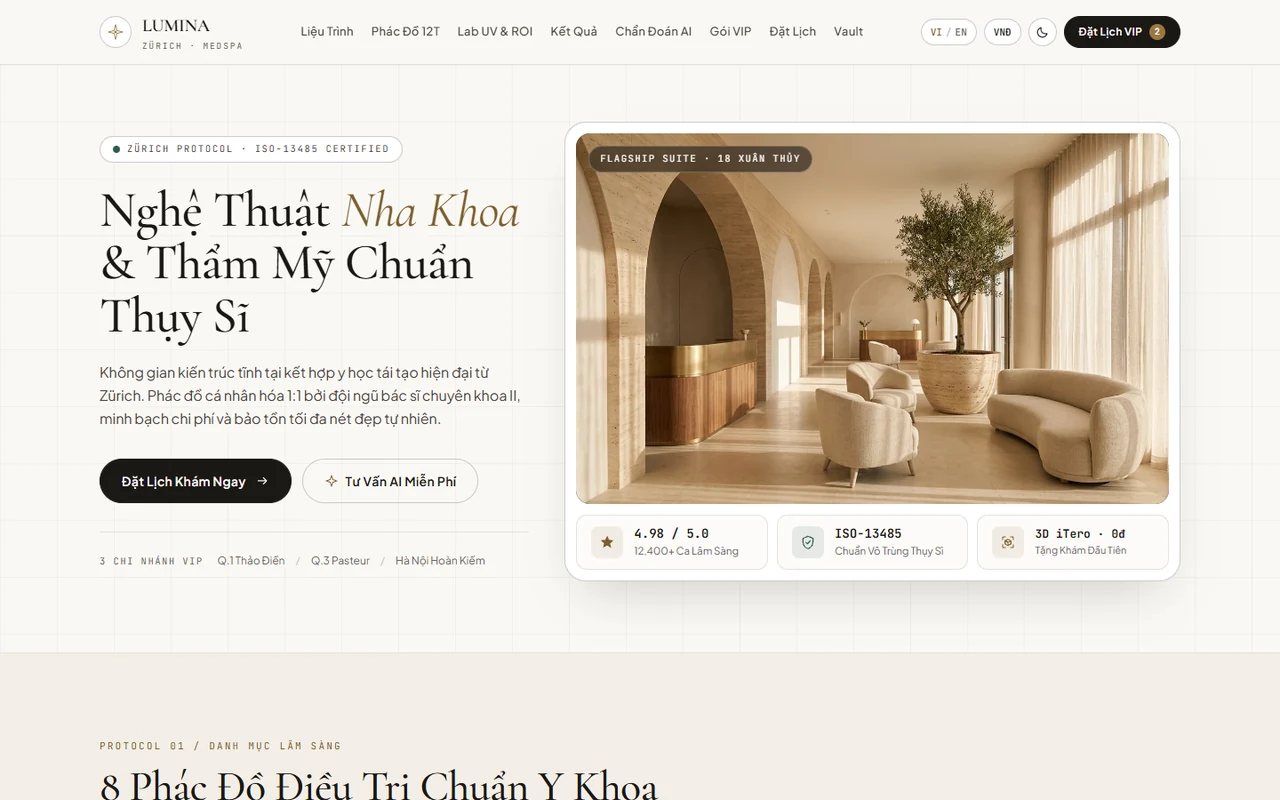
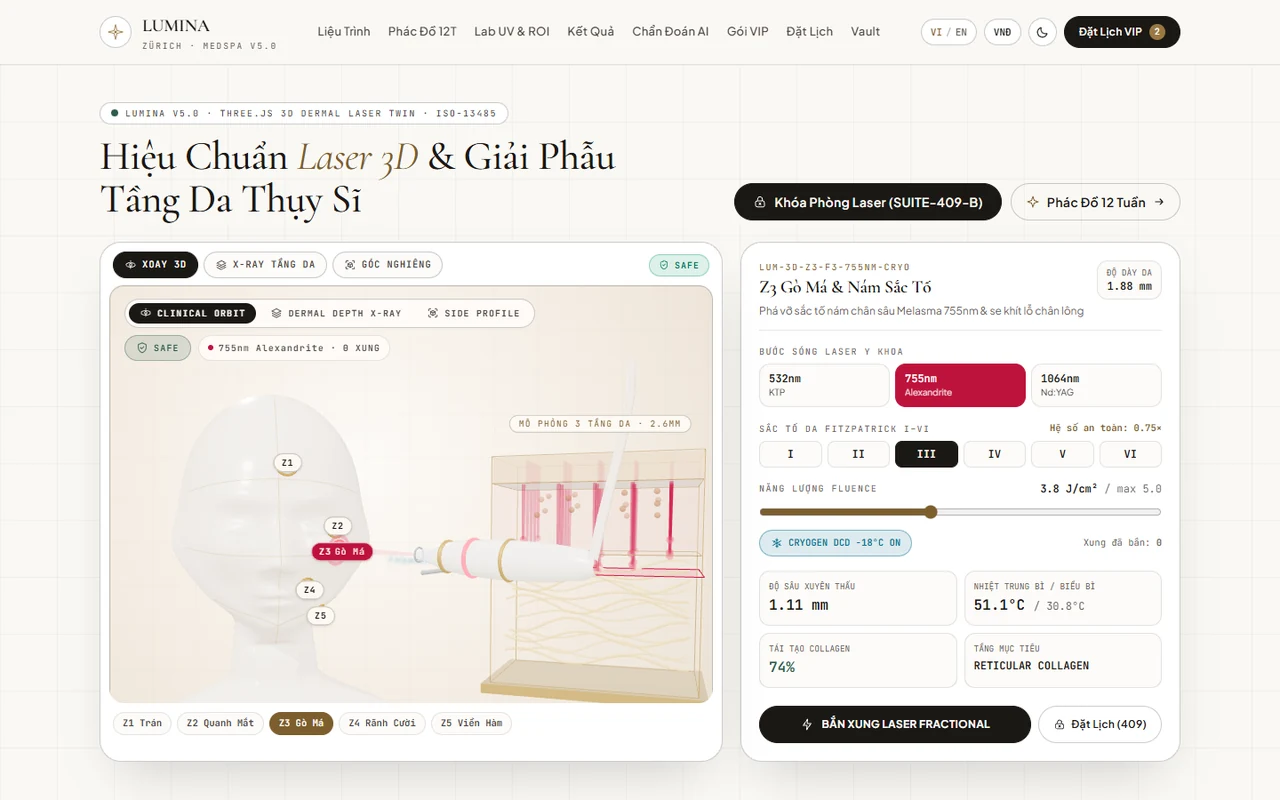
feat(wave5): sync all 26/26 Master Interactive monorepos (20 Three.js 3D), 5,043 Core Live CI & fresh .webp previews

diff --git a/src/engines/catalog.ts b/src/engines/catalog.ts
@@ -121,14 +121,14 @@ export const CATALOG_PRODUCTS: TemplateProduct[] = [
   {
     id: 'lumina-medspa',
     sku: 'TVT-MED-03',
-    name: 'Lumina MedSpa Clinic v4.0',
+    name: 'Lumina MedSpa Clinic v5.0',
     subtitle: {
-      vi: 'Website Phòng Khám Nha Khoa / Thẩm Mỹ & Đặt Lịch',
-      en: 'Aesthetic Clinic, Dental & Smart Booking Platform',
+      vi: 'Hiệu Chuẩn Laser 3D Trên Gương Mặt & X-Ray Giải Phẫu 3 Tầng Da, Làm Lạnh Cryo & .NET 10',
+      en: '60fps 3D Facial Laser Calibration & Dermal Layer X-Ray Cutaway, Cryo DCD & .NET 10',
     },
     tagline: {
-      vi: 'Website chuẩn y khoa cao cấp với hệ thống chọn bác sĩ, khung giờ thông minh, so sánh trước/sau và bảng giá dịch vụ minh bạch.',
-      en: 'Editorial medical aesthetics storefront with doctor slot booking, treatment calculator, and before/after showcase.',
+      vi: 'Bản sao số Da liễu Thụy Sĩ 3D Three.js: chạm trực tiếp 5 vùng mặt Z1–Z5, bắn tia 532/755/1064nm kết hợp làm lạnh Cryogen -18°C, mở mặt cắt X-Ray 3 tầng da 2.6mm đo nhiệt trung bì & tái tạo Collagen theo thang Fitzpatrick I–VI.',
+      en: '60fps Three.js Swiss Dermatology Twin: click facial zones Z1–Z5, fire 532/755/1064nm laser pulses with -18°C Cryogen DCD cooling, inspect 3-layer 2.6mm Dermal Depth X-Ray cutaway & calibrate Fitzpatrick I–VI thermal safety.',
     },
     category: 'clinic-proptech',
     categoryLabel: {
@@ -143,28 +143,28 @@ export const CATALOG_PRODUCTS: TemplateProduct[] = [
     deliveryDaysMax: 4,
     liveUrl: 'https://tvt987.github.io/lumina-medspa/',
     previewImage: './media/lumina-medspa.webp',
-    previewBadge: 'PATIENT VAULT · 0% INSTALLMENT',
+    previewBadge: '.NET 10 · 3D FACIAL LASER · DERMAL X-RAY · CRYO',
     featuredRank: 20,
-    stack: ['.NET 10', '12W Roadmap', 'Fitzpatrick Guard', 'Slot Lock'],
+    stack: ['.NET 10', 'Three.js 3D Laser', 'Dermal X-Ray', 'Fitzpatrick Guard'],
     deliverables: {
       vi: [
-        'Luồng đặt lịch khám 3 bước chọn chi nhánh, chuyên khoa, bác sĩ & khung giờ trống',
-        'Bảng giá liệu trình minh bạch, tính gói combo chăm sóc & gửi xác nhận Zalo/Email',
-        'Khu vực đội ngũ bác sĩ, chứng chỉ y khoa & hình ảnh khách hàng tăng độ tin cậy',
-        'Tối ưu SEO Local Google Maps và tốc độ tải tức thì trên điện thoại khách hàng',
+        'Tượng gương mặt Alabaster 3D & tay cầm Laser khớp động bắn tia 532/755/1064nm + mặt cắt X-Ray 3 tầng da 2.6mm',
+        'Cảnh báo an toàn nhiệt biểu bì theo sắc tố Fitzpatrick I–VI, hệ thống làm lạnh Cryogen -18°C & lộ trình 12 tuần',
+        'Đặt lịch chọn bác sĩ, phòng máy Laser (Suite-409-B) khóa chống trùng slot (.NET 10 API, 175 CI tests) & VietQR',
+        'Hồ sơ bệnh án Patient Vault, máy tính hoàn vốn CapEx máy Laser & tối ưu SEO Local Google Maps',
       ],
       en: [
-        '3-step appointment booking flow by branch, specialty, doctor, and live time slots',
-        'Transparent treatment menu, bundle calculator & instant Zalo/Email confirmation',
-        'Doctor credential profiles, clinical hygiene badges, and social proof showcase',
-        'Local SEO schema markup and instant mobile loading performance',
+        '60fps Three.js Alabaster facial twin & articulated laser handpiece firing 532/755/1064nm beams into 3-layer 2.6mm Dermal X-Ray',
+        'Real-time Fitzpatrick I–VI thermal guard, -18°C Cryogen DCD cooling & 12-week clinical treatment roadmap',
+        'Atomic suite & doctor slot locker (.NET 10 API, 175 CI tests), treatment bundle estimator & VietQR deposit',
+        'Patient Vault dossier, Laser CapEx ROI lab & Local SEO schema markup',
       ],
     },
     architectureNote: {
-      vi: 'Full-Stack Monorepo .NET 10 với lộ trình 12 tuần, cảnh báo Fitzpatrick an toàn da & khóa khung giờ chống đặt trùng.',
-      en: 'Full-Stack .NET 10 clinic monorepo with 12-week treatment roadmap, Fitzpatrick safety guard & atomic slot conflict lock.',
+      vi: 'Full-Stack Monorepo .NET 10 + Hiệu chuẩn Laser 3D Three.js, mặt cắt X-Ray 3 tầng da, cảnh báo Fitzpatrick I–VI & khóa phòng chống đặt trùng.',
+      en: 'Full-Stack .NET 10 clinic monorepo pairing Three.js 3D facial laser physics, 3-layer dermal X-Ray, Fitzpatrick safety guard & atomic slot lock.',
     },
-    metricsBadge: 'PATIENT VAULT · 0% INSTALLMENT',
+    metricsBadge: '.NET 10 · 3D FACIAL LASER · DERMAL X-RAY · CRYO',
   },
   {
     id: 'kinetix-proptech',
@@ -543,14 +543,14 @@ export const CATALOG_PRODUCTS: TemplateProduct[] = [
   {
     id: 'solaris-academy',
     sku: 'TVT-EDU-12',
-    name: 'Solaris Academy LMS v3.0',
+    name: 'Solaris Academy LMS v4.0',
     subtitle: {
-      vi: 'Nền Tảng E-Learning, Chấm Code Sandbox & Cấp Chứng Chỉ',
-      en: 'Interactive Coding LMS, Zero-Eval Sandbox & Verifiable Certificates',
+      vi: 'Sa Bàn Kiến Trúc Phân Tán 5 Tầng 3D, Bão Cache Stampede, 1-Click Auto-Scale & FastAPI AST',
+      en: '60fps 3D 5-Tier Distributed Architecture Sandbox, Cache Stampede Chaos, Auto-Scale & FastAPI AST',
     },
     tagline: {
-      vi: 'Hệ thống học trực tuyến hiện đại với trình chạy & chấm bài tập code an toàn ngay trên trình duyệt, flashcard lặp lại ngắt quãng SM-2 và cấp chứng chỉ QR.',
-      en: 'Modern EdTech LMS featuring a custom zero-eval AST code sandbox, SM-2 spaced-repetition flashcards, XP streaks, and verifiable SVG/PDF certificates.',
+      vi: 'Sa bàn kiến trúc Cloud 5 tầng 3D Three.js (Edge CDN → API GW → App Cluster → Redis Cache → Sharded DB): kéo tải 1K–100K RPS, click tủ rack nâng +1 blade, tiêm bão Cache Stampede đỏ rực & bấm 1-Click Auto-Scale phục hồi P99 <22ms kèm trình chấm code AST 0-eval.',
+      en: '60fps Three.js 5-Tier Distributed Cloud Sandbox (Edge CDN → API GW → App Cluster → Redis Cache → Sharded DB): scrub 1K–100K RPS, click racks to add blades, inject Cache Stampede chaos & trigger 1-Click Auto-Scale (<22ms P99) plus zero-eval AST grader & SM-2 flashcards.',
     },
     category: 'enterprise-b2b',
     categoryLabel: { vi: 'Doanh Nghiệp, HR & FinTech', en: 'Enterprise, EdTech & FinTech' },
@@ -562,28 +562,28 @@ export const CATALOG_PRODUCTS: TemplateProduct[] = [
     deliveryDaysMax: 6,
     liveUrl: 'https://tvt987.github.io/solaris-academy/',
     previewImage: './media/solaris-academy.webp',
-    previewBadge: 'ZERO-EVAL AST SANDBOX · SM-2',
+    previewBadge: 'FASTAPI · 3D CLOUD TOPOLOGY · CACHE STAMPEDE · AST',
     featuredRank: 18,
-    stack: ['FastAPI', 'Zero-Eval AST', 'Algo Visualizer', 'Oxford UI'],
+    stack: ['FastAPI', 'Three.js 3D Topology', 'Zero-Eval AST', 'SM-2 + Oxford UI'],
     deliverables: {
       vi: [
-        '6 lộ trình khóa học công nghệ kèm theo dõi tiến độ từng bài học & chuỗi XP bền vững',
-        'Trình chấm code thực hành dùng bộ thông dịch AST an toàn (0 eval / 0 lỗ hổng XSS)',
-        'Bộ thẻ Flashcard lặp lại ngắt quãng SM-2 & ngân hàng câu hỏi trắc nghiệm có giải thích',
-        'Cấp chứng chỉ hoàn thành PDF A4 kèm mã xác thực băm + QR & giỏ khóa học VietQR',
+        'Sa bàn kiến trúc phân tán 5 tầng 3D 60fps với luồng gói tin HTTP, tiêm bão Cache Stampede/DB Failover & 1-Click Auto-Scale',
+        '6 lộ trình khóa học công nghệ + Trình chấm code thực hành dùng bộ thông dịch AST an toàn (0 eval / 144 CI tests)',
+        'Bộ thẻ Flashcard lặp lại ngắt quãng SM-2 & trực quan hóa thuật toán Binary Search/QuickSort/Dijkstra',
+        'Cấp chứng chỉ hoàn thành PDF A4 kèm mã xác thực băm HMAC + QR & giỏ khóa học VietQR',
       ],
       en: [
-        '6 flagship curriculum tracks with persistent syllabus progress & daily XP streaks',
-        'Custom zero-eval AST sandbox interpreter with automated unit test grading',
-        'SM-2 spaced-repetition flashcard trainer & timed architecture quiz engine',
-        'Verifiable SVG/A4 PDF completion certificate generator + course bundle VietQR checkout',
+        '60fps Three.js 5-tier distributed architecture sandbox with animated HTTP packets, Cache Stampede chaos & 1-Click Auto-Scale',
+        '6 flagship tracks + custom zero-eval AST sandbox interpreter with automated unit test grading (144 CI tests)',
+        'SM-2 spaced-repetition flashcard trainer & interactive Binary Search / QuickSort / Dijkstra visualizer',
+        'HMAC-verifiable SVG/A4 PDF completion certificates + course bundle VietQR checkout',
       ],
     },
     architectureNote: {
-      vi: 'Full-Stack Monorepo FastAPI với trình chấm code Zero-Eval AST an toàn 100%, trực quan hóa thuật toán (Algo Visualizer) & giao diện Oxford UI.',
-      en: 'Full-Stack FastAPI EdTech monorepo with zero-eval AST grader, interactive Algo Visualizer & editorial Oxford UI.',
+      vi: 'Full-Stack Monorepo FastAPI + Sa bàn Cloud 5 tầng 3D Three.js, trình chấm code Zero-Eval AST, Algo Visualizer & giao diện Oxford UI.',
+      en: 'Full-Stack FastAPI EdTech monorepo pairing a Three.js 3D 5-tier distributed topology sandbox, zero-eval AST grader & Oxford UI.',
     },
-    metricsBadge: 'ZERO-EVAL AST SANDBOX · SM-2',
+    metricsBadge: 'FASTAPI · 3D CLOUD TOPOLOGY · CACHE STAMPEDE · AST',
   },
   {
     id: 'kuro-omakase',
@@ -633,14 +633,14 @@ export const CATALOG_PRODUCTS: TemplateProduct[] = [
   {
     id: 'vanguard-fitness',
     sku: 'TVT-FIT-14',
-    name: 'Vanguard Fitness Club v3.0',
+    name: 'Vanguard Fitness Club v4.0',
     subtitle: {
-      vi: 'CLB Gym, Pilates & Mô Phỏng Chuyển Hóa 12 Tuần',
-      en: 'Luxury Gym, Pilates & 12-Week Metabolic Transformation Portal',
+      vi: 'Vận Động Viên Sinh Trắc 3D, Đốt Lactate Z5 & Phác Đồ Deload Tự Động ACWR .NET 10',
+      en: '60fps 3D Bio-Telemetry Kinematic Runner, VO2/Lactate Strain & Auto-Deload ACWR .NET 10',
     },
     tagline: {
-      vi: 'Tính toán BMR/TDEE/Macro chuẩn Mifflin-St Jeor kèm đồ thị chuyển hóa 12 tuần, đặt chỗ lớp học có hàng chờ tự động, ghép PT & thẻ thành viên QR.',
-      en: 'Mifflin-St Jeor BMR/TDEE/Macro & 12-week SVG trajectory simulator, live class capacity locking with auto-waitlist, PT matcher & QR Member Pass.',
+      vi: 'Vận động viên chạy bộ 3D Three.js gắn cảm biến sinh trắc học theo thời gian thực: đẩy công suất 100W→380W (Z5 VO2max Redline, 8.4mM Lactate), tiêm quá tải ACWR 1.65 phát sáng nhóm cơ nguy hiểm & bấm Prescribe Deload phục hồi HRV 94% tức thì.',
+      en: '60fps Three.js articulated bio-telemetry runner on a force-plate treadmill: drive 100W→380W (Z5 VO2max, 8.4mM Lactate), inject ACWR 1.65 overtraining illuminating crimson muscle strain rings & prescribe Autonomic Deload rebounding HRV to 94%.',
     },
     category: 'clinic-proptech',
     categoryLabel: { vi: 'Y Tế, BĐS & Wellness', en: 'Clinic, PropTech & Wellness' },
@@ -652,28 +652,28 @@ export const CATALOG_PRODUCTS: TemplateProduct[] = [
     deliveryDaysMax: 4,
     liveUrl: 'https://tvt987.github.io/vanguard-fitness/',
     previewImage: './media/vanguard-fitness.webp',
-    previewBadge: '12W METABOLIC · WAITLIST LOCK',
+    previewBadge: '.NET 10 · 3D BIO-ATHLETE · LACTATE · DELOAD',
     featuredRank: 22,
-    stack: ['.NET 10', '12W Periodization', 'FIFO Waitlist', 'ACWR Guard'],
+    stack: ['.NET 10', 'Three.js 3D Athlete', 'Lactate + ACWR', 'FIFO Waitlist'],
     deliverables: {
       vi: [
-        'Máy tính chỉ số trao đổi chất Mifflin-St Jeor + chia gram Đạm/Tinh bột/Béo & đồ thị 12 tuần',
-        'Lịch lớp HIIT, Reformer Pilates, Strength & Recovery với khóa suất trống + xếp hàng chờ tự động',
-        'Bộ ghép Huấn luyện viên (PT) theo mục tiêu + so sánh gói hội viên Tháng/Năm (-20%)',
+        'Vận động viên 3D Kinematic chạy trên thảm đo lực với chế độ Bio X-Ray & Side Gait Cam, click soi từng nhóm cơ (SmO2/Impact)',
+        'Mô phỏng quá tải chấn thương ACWR 1.65 & phác đồ Deload tự động + máy tính Mifflin-St Jeor & đồ thị chuyển hóa 12 tuần',
+        'Lịch lớp HIIT, Reformer Pilates, Strength & Recovery với khóa suất trống + xếp hàng chờ FIFO (.NET 10 API, 162 CI tests)',
         'Thẻ hội viên Obsidian QR, xuất lộ trình tập luyện PDF A4 & thanh toán VietQR',
       ],
       en: [
-        'Mifflin-St Jeor BMR/TDEE/Macro engine with interactive 12-week lean-mass SVG projection',
-        'Live weekly class schedule with real-time seat counters, automatic waitlist & .ics export',
-        'Personal Trainer specialty matcher & Monthly vs Annual (-20%) membership comparator',
+        '60fps Three.js kinematic runner with Bio X-Ray & Side Gait Cam, clickable muscle telemetry (SmO2, lactate clearance, G-impact)',
+        'Live ACWR 1.65 overtraining injection & 1-click Autonomic Deload + Mifflin-St Jeor BMR/TDEE & 12-week projection',
+        'Live weekly class schedule with real-time seat counters, automatic FIFO waitlist (.NET 10 API, 162 CI tests) & .ics export',
         'Digital QR Member Pass, printable A4 training blueprint & live VietQR settlement',
       ],
     },
     architectureNote: {
-      vi: 'Full-Stack Monorepo .NET 10 lập chu kỳ tập luyện 12 tuần (Periodization), hàng chờ lớp FIFO tự động & cảnh báo quá tải chấn thương ACWR Guard.',
-      en: 'Full-Stack .NET 10 club platform with 12-week periodization planner, atomic FIFO class waitlist & ACWR injury-load guard.',
+      vi: 'Full-Stack Monorepo .NET 10 + Vận động viên sinh trắc 3D Three.js, chu kỳ 12 tuần, hàng chờ FIFO tự động & cảnh báo quá tải ACWR.',
+      en: 'Full-Stack .NET 10 club platform pairing a Three.js 3D bio-telemetry runner, 12-week periodization, atomic FIFO waitlist & ACWR guard.',
     },
-    metricsBadge: '12W METABOLIC · WAITLIST LOCK',
+    metricsBadge: '.NET 10 · 3D BIO-ATHLETE · LACTATE · DELOAD',
   },
   {
     id: 'meridian-logistics',
@@ -723,14 +723,14 @@ export const CATALOG_PRODUCTS: TemplateProduct[] = [
   {
     id: 'coda-hr-payroll',
     sku: 'TVT-HR-16',
-    name: 'CodaHR Payroll 2026 v4.0',
+    name: 'CodaHR Payroll 2026 v5.0',
     subtitle: {
-      vi: 'Phần Mềm Tính Lương Luật 2026 (5 Bậc) & Tuyển Dụng ATS',
-      en: 'Vietnam 2026 Law Payroll Calculator, Batch Excel & Kanban ATS',
+      vi: 'Địa Cầu Bảng Lương Toàn Cầu 3D, Tháp ESOP 48 Tháng, EOR vs B2B & Luật 109/2025 .NET 10',
+      en: '60fps 3D Global Payroll Corridor Globe, 48M ESOP Monolith, EOR vs B2B & Law 109/2025 .NET 10',
     },
     tagline: {
-      vi: 'Cập nhật chuẩn Luật Thuế TNCN 2026 số 109/2025 (5 bậc, giảm trừ 15,5tr/6,2tr, trần BHXH 50,6tr), quy đổi Gross↔Net chính xác tới 1₫, bảng lương hàng loạt & Kanban ATS.',
-      en: 'Built on Vietnam 2026 Law No. 109/2025 (5 PIT brackets, 15.5M/6.2M deductions, 50.6M BHXH cap), exact Gross↔Net solver, batch payroll CSV & Kanban ATS.',
+      vi: 'Địa cầu hành lang lương toàn cầu 3D Three.js kết nối 6 hub (VN/SG/US/DE/UK/JP) kèm Tháp ESOP 48 tháng (3x–10x Exit): chuyển đổi EOR ($599/th) vs Direct B2B (-62% so với US HQ), Luật Thuế TNCN 109/2025 5 bậc & Kanban ATS.',
+      en: '60fps Three.js Global Payroll Corridor Globe linking 6 engineering hubs (VN/SG/US/DE/UK/JP) beside crystalline 48M ESOP pillars (3x–10x exits): compare EOR vs Direct B2B (-62% vs US HQ), Vietnam Law 109/2025 5-tier PIT & Kanban ATS.',
     },
     category: 'enterprise-b2b',
     categoryLabel: { vi: 'Doanh Nghiệp, HR & FinTech', en: 'Enterprise, EdTech & FinTech' },
@@ -742,40 +742,40 @@ export const CATALOG_PRODUCTS: TemplateProduct[] = [
     deliveryDaysMax: 7,
     liveUrl: 'https://tvt987.github.io/coda-hr-payroll/',
     previewImage: './media/coda-hr-payroll.webp',
-    previewBadge: 'LAW 2026 · PIT FINALIZATION · ATS',
+    previewBadge: '.NET 10 · 3D PAYROLL GLOBE · ESOP 48M · LAW 2026',
     featuredRank: 8,
-    stack: ['.NET 10', 'Kanban ATS', 'Law 109/2025', 'Salary Heatmap'],
+    stack: ['.NET 10', 'Three.js 3D Globe', 'Law 109/2025', 'ESOP + Kanban ATS'],
     deliverables: {
       vi: [
-        'Tính lương Gross→Net & Net→Gross theo Luật 109/2025 (5 bậc mới) so sánh trực tiếp Luật 2025 cũ',
-        'Bảng lương doanh nghiệp hàng loạt + chi phí chủ sử dụng 23,5% + in Phiếu Lương PDF A4',
-        'Xuất Excel CSV UTF-8 BOM chống formula-injection + tính OT miễn thuế theo Bộ luật Lao động',
-        'Bảng Kanban quản lý ứng viên 5 vòng phỏng vấn lưu bền vững & định giá gói doanh nghiệp VietQR',
+        'Địa cầu 3D Global Payroll Corridor 6 hub (VN/SG/US/DE/UK/JP) với 240 gói tin dòng tiền & Tháp ESOP 48 tháng bật 3x–10x',
+        'Tính lương Gross→Net & Net→Gross theo Luật 109/2025 (5 bậc mới, 15.5tr/6.2tr) so sánh trực tiếp Luật 2025 (.NET 10, 183 CI)',
+        'Bảng lương hàng loạt + chi phí chủ sử dụng 23,5%, xuất Excel CSV UTF-8 BOM & in Phiếu Lương PDF A4',
+        'Bảng Kanban ATS quản lý ứng viên 5 vòng phỏng vấn, bản đồ nhiệt quỹ lương & định giá VietQR',
       ],
       en: [
-        '2026 Law 109/2025 Gross↔Net solver (<= 1 VND tolerance) with side-by-side 2025 tax savings',
-        'Multi-employee batch payroll table, 23.5% employer cost ledger & printable A4 payslips',
-        'Formula-injection-safe UTF-8 BOM CSV export + Labor Code overtime exemption engine',
-        '5-stage Kanban ATS candidate pipeline with localStorage persistence & enterprise pricing',
+        '60fps Three.js Global Payroll Globe (6 hubs, 240 streaming payment packets) & rising 48M ESOP Waterfall Pillars (3x–10x)',
+        '2026 Law 109/2025 Gross↔Net solver (<= 1 VND tolerance) vs 2025 tax savings (.NET 10 API, 183 CI tests)',
+        'Multi-employee batch payroll table, 23.5% employer ledger, UTF-8 BOM CSV export & printable A4 payslips',
+        '5-stage Kanban ATS pipeline, department Salary Band Heatmap & enterprise VietQR pricing',
       ],
     },
     architectureNote: {
-      vi: 'Full-Stack Monorepo .NET 10 chuẩn Luật 109/2025 (5 bậc mới), Kanban ATS tuyển dụng & bản đồ nhiệt quỹ lương Salary Heatmap.',
-      en: 'Full-Stack .NET 10 HRIS monorepo implementing 2026 Law 109/2025 payroll, Kanban ATS & department Salary Heatmap.',
+      vi: 'Full-Stack Monorepo .NET 10 + Địa cầu 3D Global Payroll Globe Three.js, Tháp ESOP 48 tháng, Luật 109/2025 & Kanban ATS.',
+      en: 'Full-Stack .NET 10 HRIS monorepo uniting a Three.js 3D Global Payroll Globe, 48M ESOP pillars, 2026 Law 109/2025 & Kanban ATS.',
     },
-    metricsBadge: 'LAW 2026 · PIT FINALIZATION · ATS',
+    metricsBadge: '.NET 10 · 3D PAYROLL GLOBE · ESOP 48M · LAW 2026',
   },
   {
     id: 'veritas-legal-firm',
     sku: 'TVT-LAW-17',
-    name: 'Veritas Legal Studio v3.0',
+    name: 'Veritas Legal Studio v4.0',
     subtitle: {
-      vi: 'Website Hãng Luật & Trình Soạn Hợp Đồng Chấm Điểm Rủi Ro',
-      en: 'Corporate Law Firm & Bilingual Contract Risk Analyzer Studio',
+      vi: 'Tháp Thác Vốn M&A Cap-Table 3D, Tiêm Điều Khoản Độc Hại 2x & Tự Động Redline FastAPI',
+      en: '60fps 3D M&A Cap-Table Waterfall Monument, Toxic 2x Double-Dip Injection & Auto-Redline FastAPI',
     },
     tagline: {
-      vi: 'Soạn thảo hợp đồng song ngữ (MSA, NDA, Freelance B2B, SaaS DPA) bật/tắt 8 điều khoản bảo vệ, chấm điểm rủi ro 0–100 theo Nghị định 13 PDPD & in PDF A4.',
-      en: 'Interactive bilingual contract clause builder (MSA, NDA, B2B, DPA), real-time 0–100 legal risk scoring (Decree 13 PDPD), partner directory & A4 PDF export.',
+      vi: 'Tháp Thác Thanh Khoản M&A 3D Three.js phong cách phòng luật Thụy Sĩ: kéo định giá thoái vốn $10M–$150M, bấm tiêm điều khoản độc hại 2x Participating làm tháp Sáng lập sập đỏ (-$13.80M) & bấm Auto-Redline 1x NP khôi phục ngay kèm trình soạn hợp đồng NĐ 13.',
+      en: '60fps Three.js Swiss Law Library 3D M&A Cap-Table Waterfall Monument: scrub $10M–$150M exit valuations, inject Toxic 2x Participating double-dip collapsing Founder equity (-$13.80M) & trigger 1-Click Auto-Redline 1x NP plus Decree 13 PDPD bilingual contracts.',
     },
     category: 'enterprise-b2b',
     categoryLabel: { vi: 'Doanh Nghiệp, HR & FinTech', en: 'Enterprise, EdTech & FinTech' },
@@ -787,28 +787,28 @@ export const CATALOG_PRODUCTS: TemplateProduct[] = [
     deliveryDaysMax: 5,
     liveUrl: 'https://tvt987.github.io/veritas-legal-firm/',
     previewImage: './media/veritas-legal-firm.webp',
-    previewBadge: 'DECREE 13 PDPD RISK · A4 PDF',
+    previewBadge: 'FASTAPI · 3D M&A WATERFALL · TOXIC 2X REDLINE',
     featuredRank: 19,
-    stack: ['FastAPI', 'Clause Redline', 'Decree 13 PDPD', 'Conflict Check'],
+    stack: ['FastAPI', 'Three.js 3D Waterfall', 'Clause Redline', 'Decree 13 PDPD'],
     deliverables: {
       vi: [
-        '4 bộ mẫu hợp đồng thương mại song ngữ Việt–Anh bật/tắt 8 điều khoản bảo vệ sở hữu trí tuệ & thanh toán',
-        'Bộ phân tích điểm an toàn pháp lý 0–100 tự cảnh báo thiếu điều khoản hoặc xung đột NDA/PDPD',
-        'Xuất bản thảo hợp đồng chuẩn in ấn PDF A4, tải file .md & lưu kho bản nháp cá nhân',
+        'Tháp Thác Thanh Khoản M&A 3D 5 tầng cổ đông (Founders/ESOP/SAFE/Series A/B) với dòng tiền đổ từ vương miện Exit & Auto-Redline',
+        '4 bộ mẫu hợp đồng thương mại song ngữ Việt–Anh bật/tắt 8 điều khoản bảo vệ IP, chấm điểm rủi ro 0–100 NĐ 13 (150 CI tests)',
+        'Đối chiếu Redline LCS từng dòng, xuất bản thảo hợp đồng chuẩn in ấn PDF A4, tải file .md & lưu kho bản nháp',
         'Ước tính phí tư vấn/retainer doanh nghiệp, hồ sơ luật sư thành viên & đặt lịch bảo mật .ics',
       ],
       en: [
-        '4 bilingual commercial contract templates with 8 toggleable IP, liability & VIAC clauses',
-        'Real-time 0–100 legal protection score flagging omissions, NDA conflicts & Decree 13 PDPD',
-        'Formal A4 print contract preview, Markdown legal draft download & Saved Contract Vault',
+        '60fps Three.js 5-class M&A Liquidation Waterfall Monument with toxic 2x double-dip stress test & 1-click Auto-Redline recovery',
+        '4 bilingual commercial contract templates with 8 toggleable IP, liability & VIAC clauses & 0–100 Decree 13 PDPD scorer (150 CI)',
+        'Side-by-side LCS contract redline diff, formal A4 print preview, Markdown draft download & Saved Contract Vault',
         'Corporate retainer estimator, Senior Partner credentials & double-booking-safe slot locker',
       ],
     },
     architectureNote: {
-      vi: 'Full-Stack Monorepo FastAPI so sánh Redline điều khoản, chấm rủi ro Nghị định 13 PDPD & kiểm tra xung đột lợi ích Conflict Check.',
-      en: 'Full-Stack FastAPI LegalTech monorepo featuring clause redline diffing, Decree 13 PDPD risk scoring & conflict-of-interest checks.',
+      vi: 'Full-Stack Monorepo FastAPI + Tháp Thác Vốn M&A 3D Three.js, so sánh Redline điều khoản, chấm rủi ro Nghị định 13 PDPD & Conflict Check.',
+      en: 'Full-Stack FastAPI LegalTech monorepo pairing a Three.js 3D M&A Cap-Table Waterfall Monument, clause redline diffing & Decree 13 PDPD.',
     },
-    metricsBadge: 'DECREE 13 PDPD RISK · A4 PDF',
+    metricsBadge: 'FASTAPI · 3D M&A WATERFALL · TOXIC 2X REDLINE',
   },
   {
     id: 'nordic-home-atelier',

diff --git a/src/engines/__tests__/catalog.test.ts b/src/engines/__tests__/catalog.test.ts
@@ -130,12 +130,12 @@ describe('Catalog Engine', () => {
     expect(engCount).toBe(6);
   });
 
-  it('counts architectural tech stacks accurately across all 26 monorepos (26 / 18 / 8 / 15 / 4)', () => {
+  it('counts architectural tech stacks accurately across all 26 monorepos (26 / 18 / 8 / 20 / 4)', () => {
     const stackCounts = countCatalogStacks(CATALOG_PRODUCTS);
     expect(stackCounts.all).toBe(26);
     expect(stackCounts.dotnet).toBe(18);
     expect(stackCounts.fastapi).toBe(8);
-    expect(stackCounts.threejs).toBe(15);
+    expect(stackCounts.threejs).toBe(20);
     expect(stackCounts['ai-rag']).toBe(4);
   });
 
@@ -153,7 +153,7 @@ describe('Catalog Engine', () => {
     expect(fastapi.some((p) => p.id === 'vectradoc-rag')).toBe(true);
   });
 
-  it('filters Three.js 3D PBR systems (15) and AI / RAG / MCP systems (4) deterministically', () => {
+  it('filters Three.js 3D PBR systems (20) and AI / RAG / MCP systems (4) deterministically', () => {
     const threejsIds = filterCatalogByStack(CATALOG_PRODUCTS, 'threejs')
       .map((p) => p.id)
       .sort();
@@ -162,16 +162,21 @@ describe('Catalog Engine', () => {
       'aether-acoustics',
       'aurelia-resort',
       'chronos-horology',
+      'coda-hr-payroll',
       'fleetpulse-gis',
       'kinetix-proptech',
       'kuro-omakase',
+      'lumina-medspa',
       'maison-vera',
       'medcore-ehr',
       'meridian-logistics',
       'nordic-home-atelier',
       'pulse-pos-fnb',
+      'solaris-academy',
+      'vanguard-fitness',
       'vectradoc-rag',
       'velox-ev-motors',
+      'veritas-legal-firm',
       'zenith-wealth-fintech',
     ]);
 

diff --git a/src/engines/__tests__/roiComparator.test.ts b/src/engines/__tests__/roiComparator.test.ts
@@ -72,7 +72,7 @@ describe('Agency vs TVT Studio ROI Comparator Engine', () => {
 
     expect(aeroRoi.agencyMultiplier).toBe(6.2);
     expect(vectraRoi.agencyMultiplier).toBe(6.5);
-    expect(luminaRoi.agencyMultiplier).toBe(4.6);
+    expect(luminaRoi.agencyMultiplier).toBe(5.0);
     expect(aeroRoi.agencyMultiplier).toBeGreaterThan(luminaRoi.agencyMultiplier);
     expect(vectraRoi.agencyMultiplier).toBeGreaterThan(luminaRoi.agencyMultiplier);
   });

diff --git a/src/components/HeroSection.tsx b/src/components/HeroSection.tsx
@@ -38,7 +38,7 @@ export const HeroSection: React.FC<HeroSectionProps> = ({ locale, onPreviewLive 
       label: locale === 'vi' ? 'Hệ Thống & Pro Tools Live' : 'Live Apps & Pro Tools',
     },
     {
-      value: '4,875',
+      value: '5,043',
       label: locale === 'vi' ? 'Tests Xanh (.NET 10 / FastAPI / UI)' : 'Green Tests (.NET 10 / FastAPI / UI)',
     },
     {
